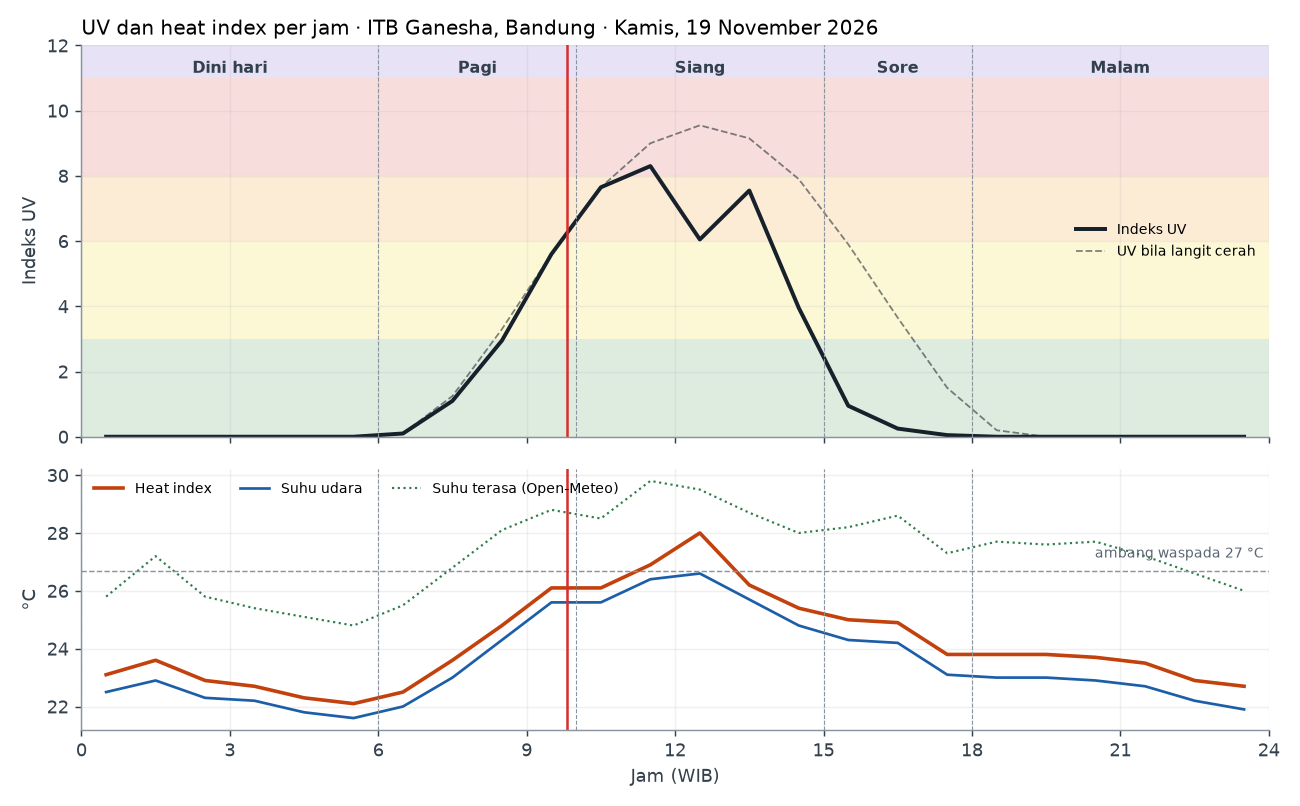
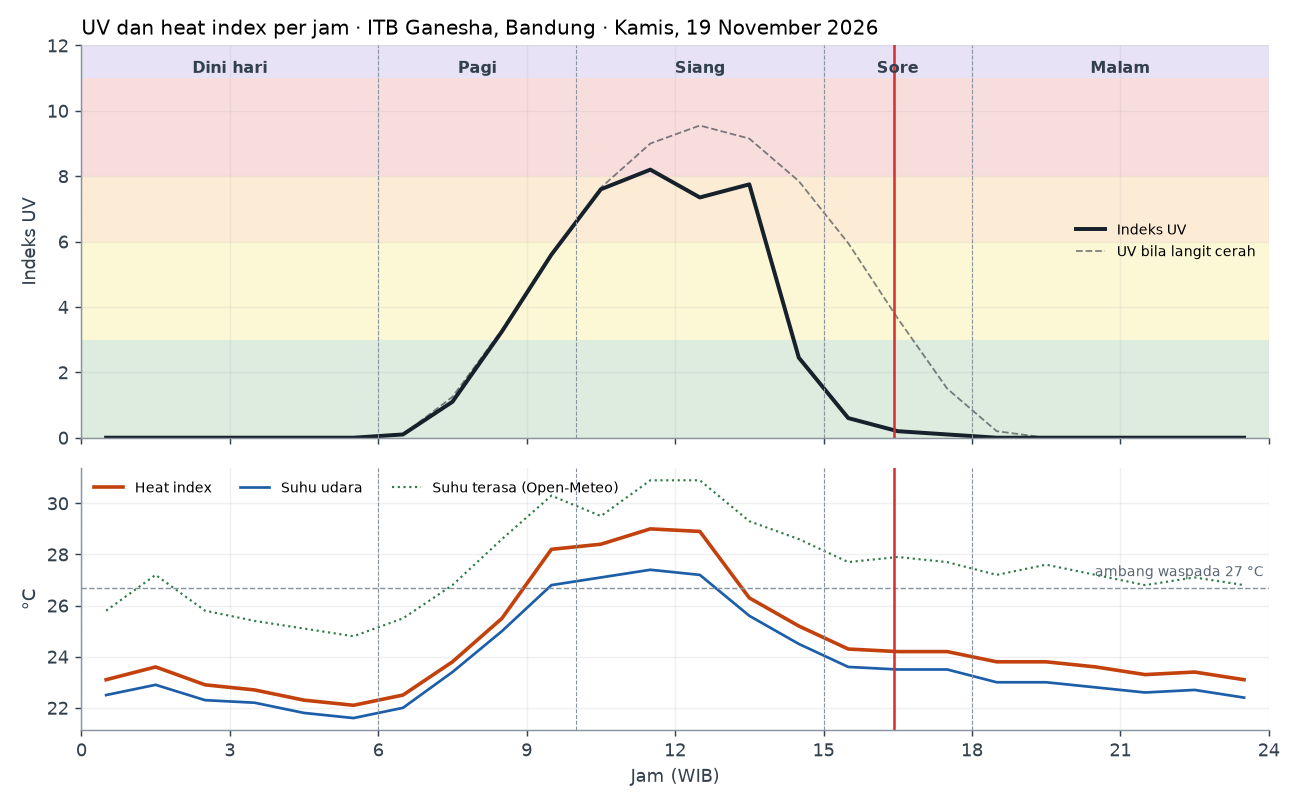
data: update 2026-11-19 16:25 WIB

diff --git a/docs/index.html b/docs/index.html
@@ -32,18 +32,18 @@ footer{margin-top:32px;color:var(--mut);font-size:.82rem}
 footer a,details a{color:var(--accent)}
 </style></head><body><div class="wrap">
 <header><h1>UV dan Heat Index — ITB Ganesha, Bandung</h1>
-<p>Kamis, 19 November 2026 · diperbarui 09:49 WIB · data Open-Meteo</p></header>
+<p>Kamis, 19 November 2026 · diperbarui 16:25 WIB · data Open-Meteo</p></header>
 <section class="kpis">
-<div class="kpi"><div class="l">Puncak UV</div><div class="v">8,3</div>
+<div class="kpi"><div class="l">Puncak UV</div><div class="v">8,2</div>
 <div class="s"><span class="pill" style="background:#d62f2f;color:#ffffff">Sangat tinggi</span> pukul 11:00 WIB</div><div class="s">Perkiraan kasar: kulit sensitif mulai memerah dalam ±20 menit tanpa perlindungan</div></div>
-<div class="kpi"><div class="l">Jam perlu proteksi (UV ≥ 3)</div><div class="v" style="font-size:1.35rem">09:00–15:00</div><div class="s">Jendela aman (UV &lt; 3): 06:00–09:00, 15:00–18:00</div></div>
-<div class="kpi"><div class="l">Heat index tertinggi</div><div class="v">28,0 °C</div><div class="s"><span class="pill" style="background:#f2d600;color:#1b1b1b">Waspada</span></div></div>
+<div class="kpi"><div class="l">Jam perlu proteksi (UV ≥ 3)</div><div class="v" style="font-size:1.35rem">08:00–14:00</div><div class="s">Jendela aman (UV &lt; 3): 06:00–08:00, 14:00–18:00</div></div>
+<div class="kpi"><div class="l">Heat index tertinggi</div><div class="v">29,0 °C</div><div class="s"><span class="pill" style="background:#f2d600;color:#1b1b1b">Waspada</span></div></div>
 </section>
 <h2>Ringkasan dan tindakan per segmen waktu</h2>
 <div class="tablewrap"><table><thead><tr><th>Segmen (WIB)</th><th>UV maks</th><th>Heat index maks</th><th>Kepastian</th><th>Tindakan</th></tr></thead>
-<tbody><tr class='past'><td><b>Dini hari</b><br><small>00:00–06:00</small><br><small>Selesai</small></td><td><span class="pill" style="background:#d9dee3;color:#33404d">Tidak ada</span></td><td><span class="n">23,6 °C</span> <span class="pill" style="background:#2e8b3d;color:#ffffff">Aman</span><br><small>suhu rata-rata 22 °C, RH 87%</small></td><td><small>Tinggi · HI 22–24 °C</small></td><td>Tabir surya tidak diperlukan.</td></tr><tr class='now'><td><b>Pagi</b><br><small>06:00–10:00</small><br><small>Berlangsung</small></td><td><span class="n">5,6</span> <span class="pill" style="background:#f2d600;color:#1b1b1b">Sedang</span><br><small>puncak 09:00</small></td><td><span class="n">26,1 °C</span> <span class="pill" style="background:#2e8b3d;color:#ffffff">Aman</span><br><small>suhu rata-rata 24 °C, RH 81%</small></td><td><small>Tinggi · UV 5,2–5,6 · HI 25–27 °C · CAMS 5,2 · skenario terburuk</small></td><td>SPF 30+ dan kacamata hitam; cari teduh saat terik. Bawa botol minum; minum sebelum haus. Mendung tidak mengurangi risiko UV.</td></tr><tr class=''><td><b>Siang</b><br><small>10:00–15:00</small><br><small>Akan datang</small></td><td><span class="n">8,3</span> <span class="pill" style="background:#d62f2f;color:#ffffff">Sangat tinggi</span><br><small>puncak 11:00</small></td><td><span class="n">28,0 °C</span> <span class="pill" style="background:#f2d600;color:#1b1b1b">Waspada</span><br><small>suhu rata-rata 26 °C, RH 71%</small></td><td><small>Sedang · UV 6,1–8,3 · HI 25–31 °C · CAMS 6,1</small></td><td>Hindari luar ruang tanpa naungan; bila perlu SPF 50+, topi, pakaian menutup. Bawa botol minum; minum sebelum haus. Mendung tidak mengurangi risiko UV. Bawa payung.</td></tr><tr class=''><td><b>Sore</b><br><small>15:00–18:00</small><br><small>Akan datang</small></td><td><span class="n">0,9</span> <span class="pill" style="background:#2e8b3d;color:#ffffff">Rendah</span><br><small>puncak 15:00</small></td><td><span class="n">25,0 °C</span> <span class="pill" style="background:#2e8b3d;color:#ffffff">Aman</span><br><small>suhu rata-rata 24 °C, RH 86%</small></td><td><small>Tinggi · UV 0,9–1,4 · HI 24–26 °C · CAMS 1,4</small></td><td>Aman di luar ruang; tabir surya opsional. Bawa payung.</td></tr><tr class=''><td><b>Malam</b><br><small>18:00–24:00</small><br><small>Akan datang</small></td><td><span class="pill" style="background:#d9dee3;color:#33404d">Tidak ada</span></td><td><span class="n">23,8 °C</span> <span class="pill" style="background:#2e8b3d;color:#ffffff">Aman</span><br><small>suhu rata-rata 23 °C, RH 93%</small></td><td><small>Tinggi · HI 23–24 °C</small></td><td>Tabir surya tidak diperlukan. Bawa payung.</td></tr></tbody></table></div>
+<tbody><tr class='past'><td><b>Dini hari</b><br><small>00:00–06:00</small><br><small>Selesai</small></td><td><span class="pill" style="background:#d9dee3;color:#33404d">Tidak ada</span></td><td><span class="n">23,6 °C</span> <span class="pill" style="background:#2e8b3d;color:#ffffff">Aman</span><br><small>suhu rata-rata 22 °C, RH 87%</small></td><td><small>Tinggi · HI 22–24 °C</small></td><td>Tabir surya tidak diperlukan.</td></tr><tr class='past'><td><b>Pagi</b><br><small>06:00–10:00</small><br><small>Selesai</small></td><td><span class="n">5,6</span> <span class="pill" style="background:#f2d600;color:#1b1b1b">Sedang</span><br><small>puncak 09:00</small></td><td><span class="n">28,2 °C</span> <span class="pill" style="background:#f2d600;color:#1b1b1b">Waspada</span><br><small>suhu rata-rata 24 °C, RH 76%</small></td><td><small>Tinggi · UV 5,2–5,6 · HI 26–31 °C · CAMS 5,2</small></td><td>SPF 30+ dan kacamata hitam; cari teduh saat terik. Bawa botol minum; minum sebelum haus. Mendung tidak mengurangi risiko UV.</td></tr><tr class='past'><td><b>Siang</b><br><small>10:00–15:00</small><br><small>Selesai</small></td><td><span class="n">8,2</span> <span class="pill" style="background:#d62f2f;color:#ffffff">Sangat tinggi</span><br><small>puncak 11:00</small></td><td><span class="n">29,0 °C</span> <span class="pill" style="background:#f2d600;color:#1b1b1b">Waspada</span><br><small>suhu rata-rata 26 °C, RH 71%</small></td><td><small>Sedang · UV 6,1–8,2 · HI 27–31 °C · CAMS 6,1</small></td><td>Hindari luar ruang tanpa naungan; bila perlu SPF 50+, topi, pakaian menutup. Bawa botol minum; minum sebelum haus. Mendung tidak mengurangi risiko UV. Bawa payung.</td></tr><tr class='now'><td><b>Sore</b><br><small>15:00–18:00</small><br><small>Berlangsung</small></td><td><span class="n">0,6</span> <span class="pill" style="background:#2e8b3d;color:#ffffff">Rendah</span><br><small>puncak 15:00</small></td><td><span class="n">24,3 °C</span> <span class="pill" style="background:#2e8b3d;color:#ffffff">Aman</span><br><small>suhu rata-rata 24 °C, RH 89%</small></td><td><small>Tinggi · UV 0,6–1,4 · HI 23–25 °C · CAMS 1,4</small></td><td>Aman di luar ruang; tabir surya opsional. Bawa payung.</td></tr><tr class=''><td><b>Malam</b><br><small>18:00–24:00</small><br><small>Akan datang</small></td><td><span class="pill" style="background:#d9dee3;color:#33404d">Tidak ada</span></td><td><span class="n">23,8 °C</span> <span class="pill" style="background:#2e8b3d;color:#ffffff">Aman</span><br><small>suhu rata-rata 23 °C, RH 93%</small></td><td><small>Tinggi · HI 23–24 °C</small></td><td>Tabir surya tidak diperlukan. Bawa payung.</td></tr></tbody></table></div>
 <h2>Pesan hari ini untuk mahasiswa</h2>
-<div class="tablewrap" style="padding:6px 20px"><ul style="padding-left:18px;margin:10px 0"><li>UV hari ini mencapai 8,3 (sangat tinggi) sekitar pukul 11:00. Pakai sunscreen dan cari tempat teduh pada 09:00–15:00.</li><li>Target minimal 8 gelas air putih sehari. Kalau kamu banyak di luar ruang, minum ±250 ml tiap jam secara perlahan. Cek warna pipis: kuning pucat berarti cukup.</li><li>Kombo hari ini: minum cukup + sunscreen + berteduh di jam puncak.</li></ul></div>
+<div class="tablewrap" style="padding:6px 20px"><ul style="padding-left:18px;margin:10px 0"><li>UV hari ini mencapai 8,2 (sangat tinggi) sekitar pukul 11:00. Pakai sunscreen dan cari tempat teduh pada 08:00–14:00.</li><li>Target minimal 8 gelas air putih sehari. Kalau kamu banyak di luar ruang, minum ±250 ml tiap jam secara perlahan. Cek warna pipis: kuning pucat berarti cukup.</li><li>Kombo hari ini: minum cukup + sunscreen + berteduh di jam puncak.</li></ul></div>
 <h2>Grafik</h2><div class="charts"><img src="today.png" alt="UV, heat index, dan suhu per jam hari ini"><img src="trend.png" alt="UV dan heat index maksimum per segmen, 14 hari"></div>
 <details><summary>Cara membaca, asumsi, dan ketidakpastian</summary><ul>
 <li>Nilai per segmen adalah <b>maksimum</b> dalam segmen tersebut (kondisi terburuk). Batas segmen: Dini hari 00–06, Pagi 06–10, Siang 10–15, Sore 15–18, Malam 18–24 WIB.</li>

diff --git a/README.md b/README.md
@@ -10,26 +10,26 @@ Pemantauan intensitas sinar UV dan heat index di kampus ITB Ganesha, Bandung, pe
 ## Kondisi hari ini
 
 <!-- TODAY:START -->
-**Kamis, 19 November 2026** · ITB Ganesha, Bandung · diperbarui 09:49 WIB
+**Kamis, 19 November 2026** · ITB Ganesha, Bandung · diperbarui 16:25 WIB
 
 | Ringkasan hari ini | |
 |---|---|
-| Puncak UV | **8,3** (Sangat tinggi) pukul 11:00 WIB |
-| Jam perlu proteksi (UV ≥ 3) | 09:00–15:00 |
-| Jendela UV aman (< 3) | 06:00–09:00, 15:00–18:00 |
-| Heat index tertinggi | **28,0 °C** (Waspada) |
+| Puncak UV | **8,2** (Sangat tinggi) pukul 11:00 WIB |
+| Jam perlu proteksi (UV ≥ 3) | 08:00–14:00 |
+| Jendela UV aman (< 3) | 06:00–08:00, 14:00–18:00 |
+| Heat index tertinggi | **29,0 °C** (Waspada) |
 
 | Segmen | Jam (WIB) | UV maks | Heat index maks | Kepastian | Tindakan |
 |---|---|---|---|---|---|
 | **Dini hari** | 00:00–06:00 | Tidak ada | **23,6 °C** Aman | Tinggi · HI 22–24 °C | Tabir surya tidak diperlukan. |
-| **Pagi** (berlangsung) | 06:00–10:00 | **5,6** Sedang (09:00) | **26,1 °C** Aman | Tinggi · UV 5,2–5,6 · HI 25–27 °C · CAMS 5,2 · skenario terburuk | SPF 30+ dan kacamata hitam; cari teduh saat terik. Bawa botol minum; minum sebelum haus. Mendung tidak mengurangi risiko UV. |
-| **Siang** | 10:00–15:00 | **8,3** Sangat tinggi (11:00) | **28,0 °C** Waspada | Sedang · UV 6,1–8,3 · HI 25–31 °C · CAMS 6,1 | Hindari luar ruang tanpa naungan; bila perlu SPF 50+, topi, pakaian menutup. Bawa botol minum; minum sebelum haus. Mendung tidak mengurangi risiko UV. Bawa payung. |
-| **Sore** | 15:00–18:00 | **0,9** Rendah (15:00) | **25,0 °C** Aman | Tinggi · UV 0,9–1,4 · HI 24–26 °C · CAMS 1,4 | Aman di luar ruang; tabir surya opsional. Bawa payung. |
+| **Pagi** | 06:00–10:00 | **5,6** Sedang (09:00) | **28,2 °C** Waspada | Tinggi · UV 5,2–5,6 · HI 26–31 °C · CAMS 5,2 | SPF 30+ dan kacamata hitam; cari teduh saat terik. Bawa botol minum; minum sebelum haus. Mendung tidak mengurangi risiko UV. |
+| **Siang** | 10:00–15:00 | **8,2** Sangat tinggi (11:00) | **29,0 °C** Waspada | Sedang · UV 6,1–8,2 · HI 27–31 °C · CAMS 6,1 | Hindari luar ruang tanpa naungan; bila perlu SPF 50+, topi, pakaian menutup. Bawa botol minum; minum sebelum haus. Mendung tidak mengurangi risiko UV. Bawa payung. |
+| **Sore** (berlangsung) | 15:00–18:00 | **0,6** Rendah (15:00) | **24,3 °C** Aman | Tinggi · UV 0,6–1,4 · HI 23–25 °C · CAMS 1,4 | Aman di luar ruang; tabir surya opsional. Bawa payung. |
 | **Malam** | 18:00–24:00 | Tidak ada | **23,8 °C** Aman | Tinggi · HI 23–24 °C | Tabir surya tidak diperlukan. Bawa payung. |
 
 **Pesan hari ini untuk mahasiswa**
 
-- UV hari ini mencapai 8,3 (sangat tinggi) sekitar pukul 11:00. Pakai sunscreen dan cari tempat teduh pada 09:00–15:00.
+- UV hari ini mencapai 8,2 (sangat tinggi) sekitar pukul 11:00. Pakai sunscreen dan cari tempat teduh pada 08:00–14:00.
 - Target minimal 8 gelas air putih sehari. Kalau kamu banyak di luar ruang, minum ±250 ml tiap jam secara perlahan. Cek warna pipis: kuning pucat berarti cukup.
 - Kombo hari ini: minum cukup + sunscreen + berteduh di jam puncak.
 
@@ -46,18 +46,18 @@ Pemantauan intensitas sinar UV dan heat index di kampus ITB Ganesha, Bandung, pe
 |---:|---:|---:|---:|---:|---:|
 | 05:00 | 0,0 | 22,1 | 21,6 | 87 | 87 |
 | 06:00 | 0,1 | 22,5 | 22,0 | 87 | 98 |
-| 07:00 | 1,1 | 23,6 | 23,0 | 85 | 97 |
-| 08:00 | 3,0 | 24,8 | 24,3 | 79 | 96 |
-| 09:00 | 5,6 | 26,1 | 25,6 | 72 | 100 |
-| 10:00 | 7,7 | 26,1 | 25,6 | 71 | 99 |
-| 11:00 | 8,3 | 26,9 | 26,4 | 70 | 98 |
-| 12:00 | 6,0 | 28,0 | 26,6 | 67 | 100 |
-| 13:00 | 7,5 | 26,2 | 25,7 | 71 | 100 |
-| 14:00 | 4,0 | 25,4 | 24,8 | 78 | 100 |
-| 15:00 | 0,9 | 25,0 | 24,3 | 83 | 100 |
-| 16:00 | 0,2 | 24,9 | 24,2 | 85 | 99 |
-| 17:00 | 0,1 | 23,8 | 23,1 | 90 | 99 |
-| 18:00 | 0,0 | 23,8 | 23,0 | 92 | 92 |
+| 07:00 | 1,1 | 23,8 | 23,4 | 78 | 47 |
+| 08:00 | 3,2 | 25,5 | 25,0 | 73 | 64 |
+| 09:00 | 5,6 | 28,2 | 26,8 | 66 | 71 |
+| 10:00 | 7,6 | 28,4 | 27,1 | 62 | 99 |
+| 11:00 | 8,2 | 29,0 | 27,4 | 64 | 99 |
+| 12:00 | 7,3 | 28,9 | 27,2 | 67 | 100 |
+| 13:00 | 7,8 | 26,3 | 25,6 | 78 | 100 |
+| 14:00 | 2,5 | 25,2 | 24,5 | 84 | 100 |
+| 15:00 | 0,6 | 24,3 | 23,6 | 88 | 100 |
+| 16:00 | 0,2 | 24,2 | 23,5 | 89 | 100 |
+| 17:00 | 0,1 | 24,2 | 23,5 | 89 | 100 |
+| 18:00 | 0,0 | 23,8 | 23,0 | 93 | 100 |
 <!-- HOURLY:END -->
 
 </details>
